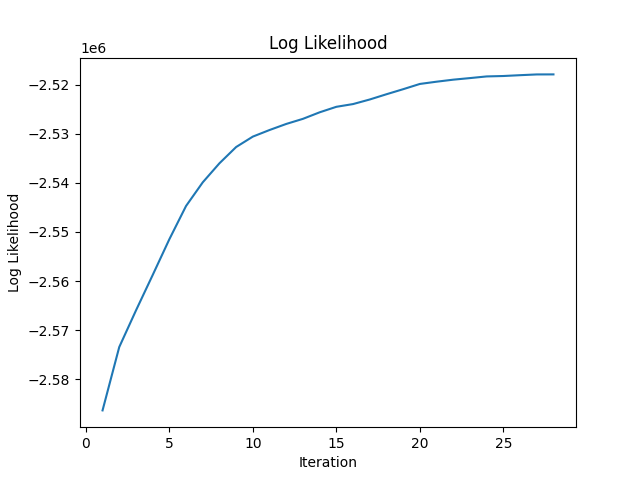
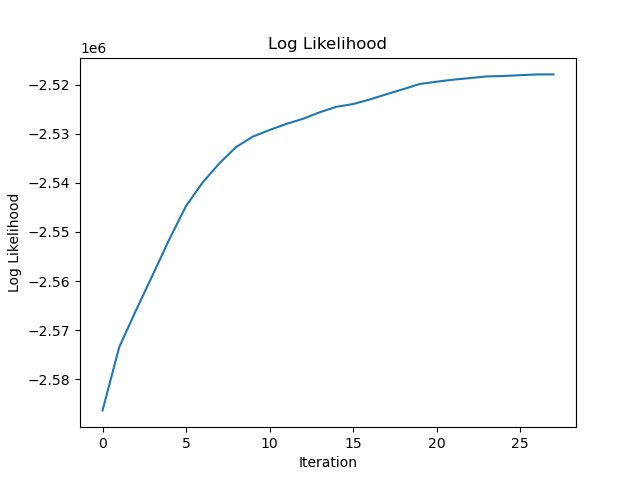
report part 2

diff --git a/ex3.py b/ex3.py
@@ -6,6 +6,7 @@ import re
 import numpy as np
 import time
 import matplotlib.pyplot as plt
+from copy import deepcopy
 
 develop_txt_name = "develop.txt"
 #Getting the parameters
@@ -80,19 +81,20 @@ def get_Data_From_File(file_name):
     return docs_list_filtered, words_counter
 
 class EM:
-    def __init__(self, docs, words_counter):
-        self.docs = docs
-        self.words_counter = words_counter
+    def __init__(self, docs, words_counter, stopping_criteria=10):
+        self.docs = deepcopy(docs)
+        self.words_counter = deepcopy(words_counter)
         self.word_count_matrix = np.array([[doc[3].get(word, 0) for word in self.words_counter.keys()] for doc in self.docs])
         self.doc_len_matrix = np.array([doc[2] for doc in self.docs])[:, np.newaxis]  # Matrix of document lengths
         self.P_total = [0 for i in range(NUMBER_OF_CLUSTERS)]
         # Stores the perplexity, likelihood per iteration
         self.iter_scores = []
+        self.stopping_criteria = stopping_criteria
     
     def run(self):
         t = 1
         while(True):
-            if (len(self.iter_scores) > 2 and self.iter_scores[-1][0] - self.iter_scores[-2][0] <= 10):
+            if (len(self.iter_scores) > 2 and self.iter_scores[-1][0] - self.iter_scores[-2][0] <= self.stopping_criteria):
                 print("We reached the convergence point")
                 break
 
@@ -107,7 +109,7 @@ class EM:
         self.create_Graph([likli[1] for likli in self.iter_scores], 'Perplexity')
         
     def create_Graph(self, values, graph_name):
-        plt.plot(range(1, len(values) + 1), values)
+        plt.plot(values)
         plt.xlabel('Iteration')
         plt.ylabel(graph_name)
         plt.title(graph_name)
@@ -134,14 +136,14 @@ class EM:
             # Calculate the log-likelihood contribution for this document
             LogL += m + np.log(np.sum(np.exp(Zi - m) * (Zi - m >= -K)))
             
-        print(f"Run of E took:{time.time() - t}")
+        # print(f"Run of E took:{time.time() - t}")
         return LogL
 
     def M_Calc(self):
         t = time.time()
         self.set_Alpha_Calc()
         self.P_Calc()
-        print(f"Run of M took:{time.time() - t}")
+        # print(f"Run of M took:{time.time() - t}")
     
     def P_Calc(self):
         t_total = time.time()
@@ -150,7 +152,7 @@ class EM:
         numerator = np.dot(wt_matrix.T, self.word_count_matrix)
         Pi_matrix = (numerator + LAMBDA) / (denominator[:, np.newaxis] + len(self.words_counter) * LAMBDA)
         self.P_total = {i: {word: Pi_matrix[i, idx] for idx, word in enumerate(self.words_counter.keys())} for i in range(NUMBER_OF_CLUSTERS)}
-        print(f"Run of P Calc took: {time.time() - t_total}")
+        # print(f"Run of P Calc took: {time.time() - t_total}")
 
     def set_Alpha_Calc(self):
         wt_matrix = np.array([doc[0] for doc in self.docs])  # Matrix of weights
